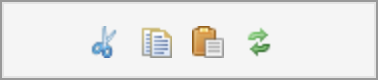
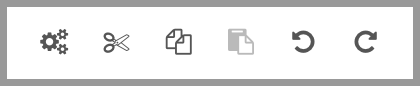
Doc for cut/copy/paste

diff --git a/form-builder/toolbox.md b/form-builder/toolbox.md
@@ -6,15 +6,23 @@
 
 The Form Builder toolbox provides the following:
 
-* **Global buttons.** Global cut/copy/paste and "reload toolbox" icon buttons
-* **Form structure**
-    * New Section
-    * New Grid
-    * New Repeated Grid
-* **Form controls**. Form control (AKA form fields) you can add to your form to capture and/or show data.
-* **Metadata.** Allows you to modify the application name and form name.
-* **Advanced.** Includes advanced features like XML Schema, PDF and source code view.
-* **Services and Actions.** Editors for simple services and actions.
+- **Global icons:**
+    - Form Settings [SINCE Orbeon Forms 2017.2]
+    - Cut/copy/paste
+    - Undo/redo [SINCE Orbeon Forms 2017.2]
+    - "Reload toolbox" [UNTIL Orbeon Forms 2017.1]
+- **Form structure:**
+    - New Section
+    - New Grid
+    - New Repeated Grid
+- **Form controls:**
+    - Form control (also known as form fields) you can add to your form.
+- **Metadata:**
+    - Allows you to modify the application name and form name.
+- **Advanced:**
+    - Includes advanced features like XML Schema, PDF and source code view.
+- **Services and Actions:**
+    - Editors for simple services and actions.
 
 Depending on your monitor or browser size, you can use the scrollbar to the right of the toolbox to see more toolbox content.
 
@@ -24,29 +32,11 @@ The toolbox can be configured via properties and component metadata.
 
 ## Cut, copy and paste
 
-The Cut, Copy and Paste icons are located at the top of the toolbox:
+See [Cut, copy and paste](form-builder/cut-copy-paste.md).
 
-![](images/xcv.png)
+## Undo and redo
 
-They allow performing the usual cut/copy/paste operations on form controls.
-
-* **Copy:** copies the control in the currently selected table cell to the Form Builder clipboard. If the cell is empty, nothing happens.
-* **Cut:** same as Copy, but removes the control from the current grid cell. If the cell is empty, nothing happens.
-* **Paste:** pastes the control in the Form Builder clipboard to the next available grid cell. If there is no control in the clipboard, nothing happens.
-
-_NOTE: These operations are restricted to the currently running instance of Form Builder. They do not apply between different Form Builder windows or tabs, or between edition sessions._
-
-The following control information is copied and pasted:
-
-* Control type
-* Name
-* Label, hint, and help
-* Itemset
-* Validations, including datatype, constraints, and alerts
-* Formulas
-* All associated localized resources
-
-When the control is pasted, if the control name of the clipboard control is currently not in use in the form, it is used. Otherwise, a new name is chosen by Form Builder.
+See [Undo and redo](form-builder/undo-redo.md).
 
 ## Reloading the toolbox
 
@@ -73,17 +63,17 @@ The "Reload Toolbox" icon is located at the top of the toolbox:
 
 ![](images/form-structure.png)
 
-### New section button
+### New Section button
 
 Pressing this button inserts a new section into the form. The section is inserted after the currently selected section, that is the section containing the currently selected control.
 
 After insertion, the new section has an empty title. You can change the section title by clicking on it.
 
-### New grid button
+### New Grid button
 
 Pressing this button inserts a new grid into the form. The grid is inserted after the currently selected grid within the currently selected section, that is the section and grid containing the currently selected control.
 
-### New repeated grid button
+### New Repeated Grid button
 
 Pressing this button inserts a new repeated grid into the form. The grid is inserted after the currently selected grid within the currently selected section, that is the section and grid containing the currently selected control.
 
@@ -93,27 +83,24 @@ After insertion, the new grid has one column and one cell. You can change the di
 
 The toolbox contains the user interface controls you can insert into your form, grouped by category:
 
-* **Text controls.** Controls that just capture or show text.
-* **Typed controls.** Controls that have type information associated, like email, phone number, attachments, etc.
-* **Date and time controls.** Controls for capturing a date or a time or both.
-* **Selection controls.** Controls that allow selecting one or more values, like dropdown menus, radio buttons, etc.
-* **Attachment controls.** Controls to attach images or files.
-* **Button controls.** Action buttons.
+| Category | Description |
+| --- | --- |
+| **Text Controls**      | for capturing text |
+| **Output Controls**    | for showing text |
+| **Typed Controls**     | for capturing other data like numbers, emails, phone numbers, etc. |
+| **Date and Time**      | for capturing a date, a time or both |
+| **Selection Controls** | for selecting one or more values, like dropdown menus, radio buttons, etc. |
+| **Attachments**        | for attaching images or files |
+| **Buttons**            | for action buttons |
 
 To add a control to your form, simply click on the control. The following insertion logic is implemented:
 
-* If the currently selected grid cell is empty, the control is inserted there.
-* Otherwise, if the cell to the right of the currently selected grid cell is empty, the control is inserted there.
-* Otherwise, if the control is the last control of the grid, a new grid row is inserted and the control is inserted in the first cell of the new row.
-* Otherwise, the controls in the toolbox are disabled and you cannot insert a new control.
+- If the currently selected grid cell is empty, the control is inserted there.
+- Otherwise, if the cell to the right of the currently selected grid cell is empty, the control is inserted there.
+- Otherwise, if the control is the last control of the grid, a new grid row is inserted and the control is inserted in the first cell of the new row.
+- Otherwise, the controls in the toolbox are disabled and you cannot insert a new control.
 
-Controls appear in the grid in two ways:
-
-* Most of the controls appear in a WYSIWYG manner.
-* Some controls are represented just with an icon. This is the case of some controls such as phone number, currency fields, etc.
-Orbeon is expecting feedback from users on the controls marked _experimental_ below.
-
-### Text controls
+### Text Controls
 
 ![](images/text-controls.png)
 
@@ -128,7 +115,7 @@ The controls appear like this at design time:
 
 ![](images/text-controls-design-time.png)
 
-### Output controls
+### Output Controls
 
 ![](images/output-controls.png)
 
@@ -137,7 +124,7 @@ The controls appear like this at design time:
 | **Explanatory Text** | Explanatory text which does not capture a value ([blog post](http://blog.orbeon.com/2015/04/adding-explanatory-text-to-your-forms.html)) |
 | **Calculated Value** | Like most other controls, the Calculated Value has a label and hint, but unlike most controls it is not used to enter a value. Instead, it just *shows* a value, either fixed or calculated with a formula. |
 
-### Typed controls
+### Typed Controls
 
 ![](images/typed-controls.png)
 
@@ -153,7 +140,7 @@ The controls appear like this at design time:
 
 ![](images/typed-controls-design-time.png)
 
-### Date and time controls
+### Date and time Controls
 
 ![](images/date-time-controls.png)
 
@@ -169,7 +156,7 @@ The controls appear like this at design time:
 
 ![](images/date-time-controls-design-time.png)
 
-### Selection controls
+### Selection Controls
 
 ![](images/selection-controls.png)
 
@@ -192,7 +179,7 @@ The controls appear like this at design time:
 
 _NOTE: The "Scrollable List" control is deprecated as of Orbeon Forms 2016.1 and removed from the toolbox._
 
-### Attachment controls
+### Attachment Controls
 
 ![](images/attachment-controls.png)
 
@@ -212,7 +199,7 @@ And this is the Signature control ( which of course you usually leave blank at d
 
 ![](images/signature-design-time.png)
 
-### Button controls
+### Button Controls
 
 ![](images/button-controls.png)
 

diff --git a/form-builder/cut-copy-paste.md b/form-builder/cut-copy-paste.md
@@ -1,0 +1,77 @@
+# Cut, copy and paste
+
+<!-- toc -->
+
+## Introduction
+
+## Cut, copy and paste from the toolbox
+
+The top of the toolbox has the usual cut, copy, and paste icons: 
+
+<img alt="Cut, copy and paste icons" src="images/xcv.png" width="210">
+
+They allow performing the usual cut/copy/paste operations on form controls.
+
+- **Cut:**
+    - Copies the control in the currently selected grid cell to the Form Builder clipboard. 
+    - Then removes the control from the current grid cell.
+    - If the cell is empty, nothing happens.
+- **Copy:** 
+    - Copies the control in the currently selected grid cell to the Form Builder clipboard.
+    - The copied control is left as is in its cell.
+    - If the cell is empty, nothing happens.
+- **Paste:** 
+    - Pastes the contents of the Form Builder clipboard.
+    - If the clipboard contains a control, it is inserted in the next available grid cell.
+    - If the clipboard contains a grid or section (see below), it is inserted in the next available position.
+    - If the clipboard is empty, nothing happens.
+
+_NOTE: These operations are restricted to the currently running instance of Form Builder. They do not apply between different Form Builder windows or tabs, or between edition sessions._
+
+The following control information is copied and pasted:
+
+- type and appearance
+- name
+- label, hint, and help
+- default value
+- itemset
+- validations, including datatype, constraints, and alerts
+- formulas
+- any associated localized resources
+
+When a control is pasted, if the control name of the clipboard control is currently not in use in the form, it is used. Otherwise, a new automatically-generated name is chosen by Form Builder.
+
+## Cut, copy and paste of grids and sections
+
+[SINCE Orbeon Forms 2017.2]
+
+When hovering over a grid or section, "Cut" and "Copy" icons are available:
+
+!["Cut" and "Copy" icons for grids and sections](images/cut-copy-grids-sections.png)
+
+*NOTE: The "Cut" icon is not available if the section or grid is the last one in its container.*
+
+- **Cut:**
+    - Copies the given grid or section to the Form Builder clipboard. 
+    - Then removes the grid or section from the form.
+- **Copy:** 
+    - Copies the grid or section to the Form Builder clipboard.
+    - The copied grid or section is left as is in the form.
+    - If the cell is empty, nothing happens.
+
+You paste a cut or copied grid or section using the toolbox's "Paste" icon (see above).
+
+## Undoing and redoing cut and paste operations
+
+[SINCE Orbeon Forms 2017.2]
+
+The "Cut" and "Paste" operations are undoable in the following way:
+
+- Undoing a "cut" of a control, grid or section puts the item back to its original location. However, the clipboard retains
+  the item.
+- Undoing a "paste" of a control, grid or section removes the newly-inserted item from the form. The clipboard remains
+  untouched.
+
+## See also 
+
+- [Undo and redo](undo-redo.md)

diff --git a/features.md b/features.md
@@ -60,7 +60,8 @@ As of 2016-04-19 this page is still being updated.
     - features: [doc](form-builder/toolbox.md)
     - configurability: [doc](form-builder/metadata.md)
     - XBL components: [doc](xforms/xbl/README.md)
-    - Undo and redo: [doc](form-builder/undo-redo.md), [blog post](http://blog.orbeon.com/2017/12/new-orbeon-forms-20172-feature-undo-and.html)
+    - undo and redo: [doc](form-builder/undo-redo.md), [blog post](http://blog.orbeon.com/2017/12/new-orbeon-forms-20172-feature-undo-and.html)
+    - cut, copy and paste: [doc](form-builder/cut-copy-paste.md)
 - Form Settings: [doc](form-builder/form-settings.md)
     - General Settings
     - Form Options: [doc](form-builder/form-settings.html#form-options)

diff --git a/SUMMARY.md b/SUMMARY.md
@@ -25,6 +25,7 @@
     * [Form editor](form-builder/form-editor.md)
         * [Form area](form-builder/form-area.md)
         * [Control settings](form-builder/control-settings.md)
+        * [Cut, copy and paste](form-builder/cut-copy-paste.md)
         * [Section settings](form-builder/section-settings.md)
         * [Validation](form-builder/validation.md)
         * [Itemset editor](form-builder/itemset-editor.md)

diff --git a/form-builder/undo-redo.md b/form-builder/undo-redo.md
@@ -10,7 +10,7 @@
 
 The toolbox shows familiar undo and redo icons.
 
-<img src="images/advanced-menu.png" width="245">
+<img alt="Undo and redo icons" src="images/xcv.png" width="210">
 
 ## Using undo and redo
 
